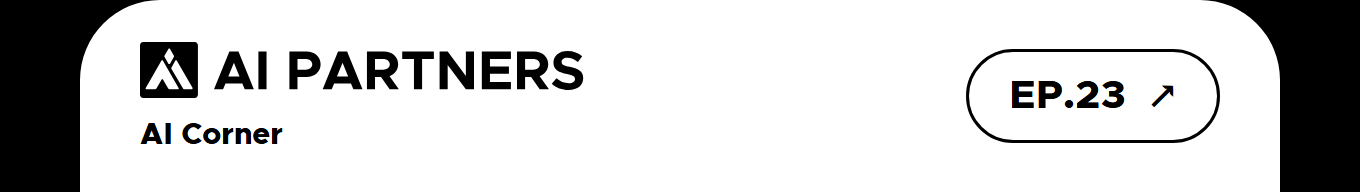
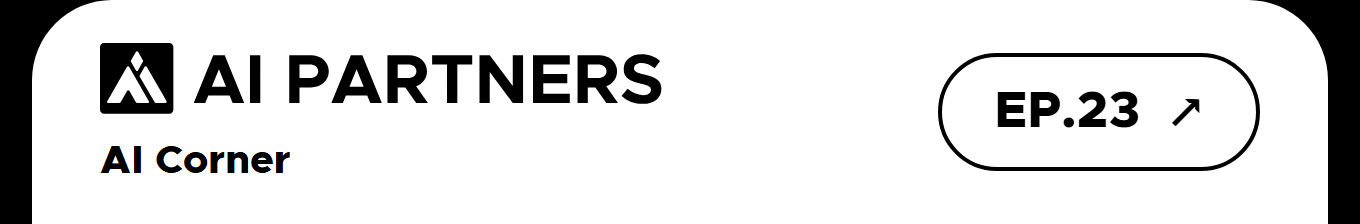
Mosaïque : lisibilité (forme pleine largeur, textes plus gros, gris foncés, intro retirée, carrés raccourcis), retour de la collègue marketing 02/11

Changed region(s): [[0.0, 0.0, 0.4941, 1.0], [0.6794, 0.0, 0.9882, 1.0]]

diff --git a/docs/newsletters/E23/email.html b/docs/newsletters/E23/email.html
@@ -7,6 +7,6 @@
 <div style="display:none;max-height:0;overflow:hidden;opacity:0">Nicolas Comestaz (Coty) : 3000 agents créés, et maintenant ? Sa méthode.</div>
 <table role="presentation" width="100%" cellpadding="0" cellspacing="0" bgcolor="#000000"><tr><td align="center" style="padding:24px 12px">
 <table role="presentation" width="680" cellpadding="0" cellspacing="0" bgcolor="#000000" style="width:100%;max-width:680px;border-radius:16px;overflow:hidden">
-<tr><td bgcolor="#000000" height="24" style="font-size:0;line-height:0;height:24px">&nbsp;</td></tr><tr><td bgcolor="#000000" style="font-size:0;line-height:0"><a href="{{lien_youtube}}" style="text-decoration:none"><img src="https://arthurw31.github.io/ai-partners-podcast-content-machine/newsletters/E23/mosaique_entete.png" width="680" alt="AI Corner by AI Partners, épisode E23" style="display:block;width:100%;max-width:680px;border:0"></a></td></tr><tr><td bgcolor="#000000" style="font-size:0;line-height:0"><a href="{{lien_youtube}}" style="text-decoration:none"><img src="https://arthurw31.github.io/ai-partners-podcast-content-machine/newsletters/E23/mosaique_miniature.jpg" width="680" alt="Comment Coty déploie l’IA à grande échelle avec Microsoft Copilot" style="display:block;width:100%;max-width:680px;border:0"></a></td></tr><tr><td bgcolor="#000000" style="font-size:0;line-height:0"><a href="{{lien_youtube}}" style="text-decoration:none"><img src="https://arthurw31.github.io/ai-partners-podcast-content-machine/newsletters/E23/mosaique_haut.png" width="680" alt="Comment Coty déploie l’IA à grande échelle avec Microsoft Copilot Les agents IA se multiplient, l’impact reste difficile à mesurer. Comment passer de l’expérimentation aux processus métier ? J’ai reçu Nicolas Comestaz, VP Global Data &amp; AI Center of Excellence chez Coty. Évangélisation, gouvernance, passage à l’échelle : il raconte ce qu’il a vraiment mis en place. Regarder l&#x27;épisode. 04:53 L’IA rejoue le scénario du digital : Les éditeurs dictent le rythme, comme avec l’AdTech et la MarTech, mais dix fois plus fort. Comment éviter les mêmes erreurs ? 09:32 Former les équipes à Copilot : Près de 1 000 licences Microsoft Copilot, puis des formations sur le terrain et en ligne, répétées marché par marché. 22:47 Une équipe centrale et des relais métiers : Un référent Data &amp; IA dans chaque fonction, et un comité, l’AI Board, qui valide chaque cas d’usage avant déploiement. 31:54 3 000 agents, et un défi humain : Plus de 3 000 agents IA créés, dont 10 qui font la même chose d’un marché à l’autre. L’enjeu devient humain, plus que technique." style="display:block;width:100%;max-width:680px;border:0"></a></td></tr><tr><td bgcolor="#000000" style="font-size:0;line-height:0"><a href="https://calendar.google.com/calendar/appointments/schedules/AcZssZ0_yeSZr-eANdqFosuQLg2jE2smXxRU-eIMCXBA0WC3CynV7uSHwNeGX8FK-0MHDtpLcNiC4f9_?gv=true" style="text-decoration:none"><img src="https://arthurw31.github.io/ai-partners-podcast-content-machine/newsletters/E23/mosaique_fin.png" width="680" alt="Ma phrase préférée : le Head of AI est un architecte. Il comprend assez la technique pour challenger, sans poser le carrelage lui-même. Thomas Spitz Vos équipes testent l&#x27;IA. Et après ? Réserver un échange avec Thomas" style="display:block;width:100%;max-width:680px;border:0"></a></td></tr><tr><td bgcolor="#000000" align="center" style="padding:0 40px"><table role="presentation" width="100%" bgcolor="#FFFFFF" cellpadding="0" cellspacing="0"><tr><td align="center" bgcolor="#FFFFFF" style="padding:0 0 4px"><table role="presentation" align="center" cellpadding="0" cellspacing="0"><tr><td align="center" valign="middle" width="100" style="padding:0 4px;font-size:0;line-height:0"><a href="https://www.youtube.com/playlist?list=PLeeolan_fqxdZbU5xZqEwo12pbqK3fH5N" style="text-decoration:none"><img src="https://arthurw31.github.io/ai-partners-podcast-content-machine/newsletters/E23/mosaique_youtube.png" width="100" height="100" alt="Youtube" style="display:block;width:100px;height:100px;border:0"></a></td><td align="center" valign="middle" width="100" style="padding:0 4px;font-size:0;line-height:0"><a href="https://open.spotify.com/show/4chUmiipM4KiK4sEdL9BeP" style="text-decoration:none"><img src="https://arthurw31.github.io/ai-partners-podcast-content-machine/newsletters/E23/mosaique_spotify.png" width="100" height="100" alt="Spotify" style="display:block;width:100px;height:100px;border:0"></a></td><td align="center" valign="middle" width="100" style="padding:0 4px;font-size:0;line-height:0"><a href="https://podcast.ausha.co/ai-partners-podcast" style="text-decoration:none"><img src="https://arthurw31.github.io/ai-partners-podcast-content-machine/newsletters/E23/mosaique_ausha.png" width="100" height="100" alt="Ausha" style="display:block;width:100px;height:100px;border:0"></a></td></tr></table></td></tr></table></td></tr><tr><td bgcolor="#000000" style="font-size:0;line-height:0"><img src="https://arthurw31.github.io/ai-partners-podcast-content-machine/newsletters/E23/mosaique_plateformes_bas.png" width="680" alt="" style="display:block;width:100%;max-width:680px;border:0"></td></tr>
-<tr><td bgcolor="#000000" class="pad" style="padding:22px 40px;font-family:Helvetica, Arial, sans-serif;font-size:12px;line-height:1.6;color:#8A8A8A">AI Corner, le podcast d'AI Partners.<!--FOOT--></td></tr>
+<tr><td bgcolor="#000000" height="24" style="font-size:0;line-height:0;height:24px">&nbsp;</td></tr><tr><td bgcolor="#000000" style="font-size:0;line-height:0"><a href="{{lien_youtube}}" style="text-decoration:none"><img src="https://arthurw31.github.io/ai-partners-podcast-content-machine/newsletters/E23/mosaique_entete.png" width="680" alt="AI Corner by AI Partners, épisode E23" style="display:block;width:100%;max-width:680px;border:0"></a></td></tr><tr><td bgcolor="#000000" style="font-size:0;line-height:0"><a href="{{lien_youtube}}" style="text-decoration:none"><img src="https://arthurw31.github.io/ai-partners-podcast-content-machine/newsletters/E23/mosaique_miniature.jpg" width="680" alt="Comment Coty déploie l’IA à grande échelle avec Microsoft Copilot" style="display:block;width:100%;max-width:680px;border:0"></a></td></tr><tr><td bgcolor="#000000" style="font-size:0;line-height:0"><a href="{{lien_youtube}}" style="text-decoration:none"><img src="https://arthurw31.github.io/ai-partners-podcast-content-machine/newsletters/E23/mosaique_haut.png" width="680" alt="Comment Coty déploie l’IA à grande échelle avec Microsoft Copilot Les agents IA se multiplient, l’impact reste difficile à mesurer. Comment passer de l’expérimentation aux processus métier ? Les thèmes abordés. Regarder l&#x27;épisode. 04:53 L’IA rejoue le scénario du digital : Les éditeurs dictent le rythme, comme avec l’AdTech et la MarTech, mais dix fois plus fort. Comment éviter les mêmes erreurs ? 09:32 Former les équipes à Copilot : Près de 1 000 licences Microsoft Copilot, puis des formations sur le terrain et en ligne, répétées marché par marché. 22:47 Une équipe centrale et des relais métiers : Un référent Data &amp; IA dans chaque fonction, et un comité, l’AI Board, qui valide chaque cas d’usage avant déploiement. 31:54 3 000 agents, et un défi humain : Plus de 3 000 agents IA créés, dont 10 font la même chose. L’enjeu est désormais humain, plus que technique." style="display:block;width:100%;max-width:680px;border:0"></a></td></tr><tr><td bgcolor="#000000" style="font-size:0;line-height:0"><a href="https://calendar.google.com/calendar/appointments/schedules/AcZssZ0_yeSZr-eANdqFosuQLg2jE2smXxRU-eIMCXBA0WC3CynV7uSHwNeGX8FK-0MHDtpLcNiC4f9_?gv=true" style="text-decoration:none"><img src="https://arthurw31.github.io/ai-partners-podcast-content-machine/newsletters/E23/mosaique_fin.png" width="680" alt="Ma phrase préférée : le Head of AI est un architecte. Il comprend assez la technique pour challenger, sans poser le carrelage lui-même. Thomas Spitz Vos équipes testent l&#x27;IA. Et après ? Réserver un échange avec Thomas" style="display:block;width:100%;max-width:680px;border:0"></a></td></tr><tr><td bgcolor="#000000" align="center" style="padding:0 16px"><table role="presentation" width="100%" bgcolor="#FFFFFF" cellpadding="0" cellspacing="0"><tr><td align="center" bgcolor="#FFFFFF" style="padding:0 0 4px"><table role="presentation" align="center" cellpadding="0" cellspacing="0"><tr><td align="center" valign="middle" width="100" style="padding:0 4px;font-size:0;line-height:0"><a href="https://www.youtube.com/playlist?list=PLeeolan_fqxdZbU5xZqEwo12pbqK3fH5N" style="text-decoration:none"><img src="https://arthurw31.github.io/ai-partners-podcast-content-machine/newsletters/E23/mosaique_youtube.png" width="100" height="100" alt="Youtube" style="display:block;width:100px;height:100px;border:0"></a></td><td align="center" valign="middle" width="100" style="padding:0 4px;font-size:0;line-height:0"><a href="https://open.spotify.com/show/4chUmiipM4KiK4sEdL9BeP" style="text-decoration:none"><img src="https://arthurw31.github.io/ai-partners-podcast-content-machine/newsletters/E23/mosaique_spotify.png" width="100" height="100" alt="Spotify" style="display:block;width:100px;height:100px;border:0"></a></td><td align="center" valign="middle" width="100" style="padding:0 4px;font-size:0;line-height:0"><a href="https://podcast.ausha.co/ai-partners-podcast" style="text-decoration:none"><img src="https://arthurw31.github.io/ai-partners-podcast-content-machine/newsletters/E23/mosaique_ausha.png" width="100" height="100" alt="Ausha" style="display:block;width:100px;height:100px;border:0"></a></td></tr></table></td></tr></table></td></tr><tr><td bgcolor="#000000" style="font-size:0;line-height:0"><img src="https://arthurw31.github.io/ai-partners-podcast-content-machine/newsletters/E23/mosaique_plateformes_bas.png" width="680" alt="" style="display:block;width:100%;max-width:680px;border:0"></td></tr>
+<tr><td bgcolor="#000000" class="pad" style="padding:22px 40px;font-family:Helvetica, Arial, sans-serif;font-size:12px;line-height:1.6;color:#B5B5B5">AI Corner, le podcast d'AI Partners.<!--FOOT--></td></tr>
 </table></td></tr></table></body></html>

diff --git a/clipper/newsletter_mosaique.py b/clipper/newsletter_mosaique.py
@@ -17,17 +17,18 @@ from PIL import Image
 from .newsletter_templates import FONT, PLATFORM_LABELS, esc, shell
 
 W = 680                  # largeur de la carte du mail (px CSS) ; images rendues à 2x
-SW = 600                 # largeur de la forme blanche
+SW = 648                 # largeur de la forme blanche : presque toute la largeur du mail (marge noire de 16 px)
+C = SW // 2              # colonne gauche / droite de l'escalier
 R_OUT, R_IN = 40, 14     # coins convexes bien arrondis ; coins des cases noires (concaves pour la forme blanche)
 OV = 6                   # recouvrement vertical de deux carrés blancs voisins = épaisseur de la jonction (fine, comme sur la référence)
-HEAD = 96                # haut de la forme : barre « AI Corner by … » (20 px de marge, 56 px) puis 20 px
-TW = 560                 # largeur de la miniature, posée DANS le blanc (20 px de marge de chaque côté)
+HEAD = 112               # haut de la forme : logo AI PARTNERS + AI Corner + pastille de l'épisode
+TW = SW - 40             # largeur de la miniature, posée DANS le blanc (20 px de marge de chaque côté)
 TH = round(TW * 9 / 16)  # hauteur de la miniature
 TXT = HEAD + TH + 30     # début du titre, de l'accroche et du bouton
-H0 = TXT + 400           # fin du grand rectangle (titre, accroche, intro, bouton)
-TITLE_H = 84             # titre du bandeau des plateformes, dans la même forme blanche
-STEP = 830               # hauteur de l'escalier du programme
-H1 = 330                 # hauteur du rectangle final (mot de Thomas + réservation)
+H0 = TXT + 400           # fin du grand rectangle (titre, accroche, « Les thèmes abordés » + bouton)
+BH = 290                 # hauteur d'un carré blanc de l'escalier (titre + 5 lignes de texte lisibles)
+TITLE_H = 100            # titre du bandeau des plateformes, dans la même forme blanche
+H1 = 400                 # hauteur du rectangle final (mot de Thomas + réservation)
 DEFAULT_GLYPHS = ["git-compare", "zap", "network", "users"]
 INK = "#000000"
 
@@ -49,18 +50,20 @@ def rounded_path(pts: list, r_out: float, r_in: float) -> str:
 
 def stair(o: int) -> dict:
     """Ordonnées de l'escalier : chaque carré blanc commence `OV` px AVANT la fin du précédent (jonction fine)."""
-    r1s, r1e = o + 200, o + 420
+    r1s = o + BH - 6
+    r1e = r1s + BH
     l2s = r1e - OV
-    l2e = l2s + 230
-    return {"l1e": r1s + OV, "r1s": r1s, "r1e": r1e, "l2s": l2s, "l2e": l2e, "r2s": l2e - OV}
+    l2e = l2s + BH
+    return {"l1e": r1s + OV, "r1s": r1s, "r1e": r1e, "l2s": l2s, "l2e": l2e, "r2s": l2e - OV, "step": l2e + 230}
 
 
 def ribbon(o: int, end: int | None = None) -> list:
     """Forme blanche : grand rectangle (0..o), puis 4 carrés en escalier reliés par un cou fin, puis rectangle final."""
-    end, y = end or o + STEP + H1, stair(o)
-    return [(0, 0), (SW, 0), (SW, o), (300, o), (300, y["r1s"]), (SW, y["r1s"]), (SW, y["r1e"]), (300, y["r1e"]), (300, y["r2s"]),
-            (SW, y["r2s"]), (SW, end), (0, end), (0, o + STEP), (300, o + STEP), (300, y["l2e"]), (0, y["l2e"]), (0, y["l2s"]),
-            (300, y["l2s"]), (300, y["l1e"]), (0, y["l1e"])]
+    y = stair(o)
+    end = end or y["step"] + H1
+    return [(0, 0), (SW, 0), (SW, o), (C, o), (C, y["r1s"]), (SW, y["r1s"]), (SW, y["r1e"]), (C, y["r1e"]), (C, y["r2s"]),
+            (SW, y["r2s"]), (SW, end), (0, end), (0, y["step"]), (C, y["step"]), (C, y["l2e"]), (0, y["l2e"]), (0, y["l2s"]),
+            (C, y["l2s"]), (C, y["l1e"]), (0, y["l1e"])]
 
 
 def sentences(text: str, max_chars: int, max_sentences: int = 2) -> str:
@@ -125,10 +128,9 @@ ARROW = '<svg width="{s}" height="{s}" viewBox="0 0 64 64"><path d="M14 50 50 14
 
 def _css(fonts_css: str) -> str:
     return (fonts_css + "*{box-sizing:border-box;margin:0}body{background:#000;color:#fff;font-family:M,Arial,sans-serif;zoom:2;overflow:hidden}"
-            ".m{font:13px/1 Consolas,'Courier New',monospace;letter-spacing:.02em}.bt{font:700 20px/1.15 M;color:#000;margin-top:16px;letter-spacing:-.01em}"
-            ".bx{font:14px/1.5 Arial;color:#4A4A4A;margin-top:8px}.hw{font:800 26px/1.08 M;color:#fff;letter-spacing:-.02em}"
-            ".big{font:800 46px/1 M;color:#fff;letter-spacing:-.03em}"
-            ".btn{display:inline-block;background:#000;color:#fff;font:700 15px/1 M;padding:17px 26px;border-radius:40px;white-space:nowrap}"
+            ".m{font:16px/1 Consolas,'Courier New',monospace;letter-spacing:.02em}.bt{font:700 25px/1.15 M;color:#000;margin-top:16px;letter-spacing:-.01em}"
+            ".bx{font:18px/1.45 Arial;color:#1A1A1A;margin-top:10px}"
+            ".btn{display:inline-block;background:#000;color:#fff;font:700 19px/1 M;padding:21px 30px;border-radius:50px;white-space:nowrap}"
             ".lg{display:block;line-height:0}.lg svg{height:14px;width:auto;display:block}")
 
 
@@ -138,14 +140,14 @@ def _lab(text: str, color: str) -> str:
 
 def _item(x: int, y: int, it: dict) -> str:
     """Carré blanc d'un point du programme : le thème et son petit texte (l'icône est dans la case noire voisine)."""
-    return (f'<div style="position:absolute;left:{x}px;top:{y}px;width:240px"><div class=bt style="margin-top:0">{esc(it["title"])}</div>'
+    return (f'<div style="position:absolute;left:{x}px;top:{y}px;width:{C - 60}px"><div class=bt style="margin-top:0">{esc(it["title"])}</div>'
             f'<div class=bx>{esc(it["text"])}</div></div>')
 
 
 def _icon_cell(brand, cx: int, cy: int, it: dict) -> str:
     """Case noire : l'icône du point voisin, en blanc, centrée."""
-    return (f'<div style="position:absolute;left:{cx - 45}px;top:{cy - 45}px;width:90px;height:90px">'
-            f'{icon(brand, it["glyph"], 90, "#fff", 1.1)}</div>')
+    return (f'<div style="position:absolute;left:{cx - 50}px;top:{cy - 50}px;width:100px;height:100px">'
+            f'{icon(brand, it["glyph"], 100, "#fff", 1.1)}</div>')
 
 
 def make_mosaic(brand, d: Path, mail: dict, shot, fonts_css: str, uri, thumb: Path | None, logo_svg: str, platforms: list,
@@ -153,9 +155,10 @@ def make_mosaic(brand, d: Path, mail: dict, shot, fonts_css: str, uri, thumb: Pa
     """Images du gabarit : en-tête, miniature arrondie, forme blanche (haut puis mot de la fin), titre et tuiles des plateformes."""
     t = short_texts(mail, title)
     o = H0
-    fin = o + STEP + H1 + TITLE_H                  # fin de ce qui est rendu ; le blanc continue ensuite (logos, puis pied arrondi)
-    end = fin + 160                                # la forme dépasse la coupe : le bas arrondi est une image à part
     y = stair(o)
+    st = y["step"]                                   # début du mot de la fin (le bas de l'escalier)
+    fin = st + H1 + TITLE_H                        # fin de ce qui est rendu ; le blanc continue ensuite (logos, puis pied arrondi)
+    end = fin + 160                                # la forme dépasse la coupe : le bas arrondi est une image à part
     prog = t["program"] + [{"time": "", "title": "", "text": "", "glyph": DEFAULT_GLYPHS[0]}] * (4 - len(t["program"]))
     ox = (W - SW) // 2
     host = cfg.get("from_name") or "Thomas Spitz"
@@ -166,33 +169,32 @@ def make_mosaic(brand, d: Path, mail: dict, shot, fonts_css: str, uri, thumb: Pa
 
     # --- UNE seule forme blanche du haut (barre du titre) au bas (plateformes) : rendue d'un bloc puis coupée en tranches
     shape = rounded_path(ribbon(o, end), R_OUT, R_IN)
-    book = (f'<div style="display:flex;justify-content:space-between;align-items:center"><div style="font:800 22px/1.15 M;color:#000">'
-            f'{esc(b.get("title") or "")}</div><span class=btn style="font-size:14px;padding:15px 22px">Réserver un échange&nbsp;↗</span></div>'
+    book = (f'<div style="display:flex;justify-content:space-between;align-items:center"><div style="font:800 28px/1.15 M;color:#000;width:300px">'
+            f'{esc(b.get("title") or "")}</div><span class=btn style="font-size:18px;padding:19px 26px">Réserver un échange&nbsp;↗</span></div>'
             ) if b.get("url") else ""
     thumb_html = (f'<img src="{uri(thumb)}" style="position:absolute;left:{(SW - TW) // 2}px;top:{HEAD}px;width:{TW}px;height:{TH}px;'
                   f'border-radius:{R_OUT - 14}px">') if thumb else ""
-    page = f"""<html><head><meta charset="utf-8"><style>{style}body{{width:{W}px;height:{end}px}}.lg svg{{filter:brightness(0);height:30px}}</style></head><body>
+    page = f"""<html><head><meta charset="utf-8"><style>{style}body{{width:{W}px;height:{end}px}}.lg svg{{filter:brightness(0);height:38px}}</style></head><body>
 <div style="position:relative;width:{SW}px;height:{end}px;margin:0 {ox}px">
 <svg width="{SW}" height="{end}" style="position:absolute;left:0;top:0"><path d="{shape}" fill="#fff"/></svg>
-<div style="position:absolute;left:30px;top:16px;width:540px;height:64px;display:flex;justify-content:space-between;align-items:center">
- <div><span class=lg>{logo_svg}</span><div style="font:800 15px/1 M;color:#000;margin-top:9px;letter-spacing:.01em">AI Corner</div></div>
- <span style="font:800 20px/1 M;background:#fff;color:#000;border:1.5px solid #000;border-radius:24px;padding:12px 20px;white-space:nowrap">EP.{re.sub(r"\D", "", str(mail.get("episode", "")))}&nbsp; ↗</span></div>
+<div style="position:absolute;left:34px;top:16px;width:{SW - 68}px;height:80px;display:flex;justify-content:space-between;align-items:center">
+ <div><span class=lg>{logo_svg}</span><div style="font:800 20px/1 M;color:#000;margin-top:11px;letter-spacing:.01em">AI Corner</div></div>
+ <span style="font:800 25px/1 M;background:#fff;color:#000;border:2px solid #000;border-radius:30px;padding:15px 26px;white-space:nowrap">EP.{re.sub(r"\D", "", str(mail.get("episode", "")))}&nbsp; ↗</span></div>
 {thumb_html}
-<div style="position:absolute;left:40px;top:{TXT}px;width:520px">
- <div style="font:800 36px/1.06 M;letter-spacing:-.025em;color:#000">{esc(t["title"])}</div>
- <div style="font:17px/1.5 Arial;color:#000;margin-top:20px">{esc(t["hook"])}</div>
- <div style="font:14.5px/1.6 Arial;color:#5A5A5A;margin-top:12px">{esc(t["intro"])}</div>
- <div style="margin-top:30px;display:flex;justify-content:space-between;align-items:center;gap:20px"><div style="font:800 30px/1.08 M;letter-spacing:-.02em;color:#000">Les thèmes<br>abordés</div>
+<div style="position:absolute;left:40px;top:{TXT}px;width:{SW - 80}px">
+ <div style="font:800 42px/1.06 M;letter-spacing:-.025em;color:#000">{esc(t["title"])}</div>
+ <div style="font:23px/1.4 Arial;color:#000;margin-top:22px">{esc(t["hook"])}</div>
+ <div style="margin-top:34px;display:flex;justify-content:space-between;align-items:center;gap:20px"><div style="font:800 38px/1.08 M;letter-spacing:-.02em;color:#000">Les thèmes<br>abordés</div>
   <span class=btn>{esc((cfg.get("button") or "Regarder l'épisode").capitalize())} &nbsp;↗</span></div></div>
-{_item(30, o + 44, prog[0])}{_item(330, y["r1s"] + 50, prog[1])}{_item(30, y["l2s"] + 54, prog[2])}{_item(330, y["r2s"] + 50, prog[3])}
-{_icon_cell(brand, 450, o + 100, prog[0])}{_icon_cell(brand, 150, (y["l1e"] + y["l2s"]) // 2, prog[1])}{_icon_cell(brand, 450, (y["r1e"] + y["r2s"]) // 2, prog[2])}{_icon_cell(brand, 150, (y["l2e"] + o + STEP) // 2, prog[3])}
-<div style="position:absolute;left:40px;top:{o + STEP + 40}px;width:520px">
- <div style="font:17px/1.55 Arial;color:#000">{esc(t["closing"])}</div>
- <div style="margin-top:18px;font:700 15px/1.4 M;color:#000">{esc(host)}</div><div class=m style="color:#6B6B6B;margin-top:6px">CEO · AI Partners</div>
- <div style="height:1px;background:#E2E2E2;margin:26px 0"></div>{book}</div>
-<div style="position:absolute;left:40px;top:{o + STEP + H1 - 14}px;width:520px;height:1px;background:#E2E2E2"></div>
-<div style="position:absolute;left:0;top:{o + STEP + H1 + 14}px;width:{SW}px;text-align:center"><div style="font:800 24px/1.1 M;color:#000">Écoutez AI Corner partout</div>
- <div class=m style="color:#6B6B6B;margin-top:12px">{labels}</div></div>
+{_item(30, o + 46, prog[0])}{_item(C + 30, y["r1s"] + 46, prog[1])}{_item(30, y["l2s"] + 46, prog[2])}{_item(C + 30, y["r2s"] + 46, prog[3])}
+{_icon_cell(brand, C + C // 2, o + BH // 2 - 3, prog[0])}{_icon_cell(brand, C // 2, (y["l1e"] + y["l2s"]) // 2, prog[1])}{_icon_cell(brand, C + C // 2, (y["r1e"] + y["r2s"]) // 2, prog[2])}{_icon_cell(brand, C // 2, (y["l2e"] + st) // 2, prog[3])}
+<div style="position:absolute;left:40px;top:{st + 44}px;width:{SW - 80}px">
+ <div style="font:22px/1.5 Arial;color:#000">{esc(t["closing"])}</div>
+ <div style="margin-top:20px;font:700 19px/1.4 M;color:#000">{esc(host)}</div><div class=m style="color:#333;margin-top:7px">CEO · AI Partners</div>
+ <div style="height:1px;background:#D5D5D5;margin:28px 0"></div>{book}</div>
+<div style="position:absolute;left:40px;top:{st + H1 - 14}px;width:{SW - 80}px;height:1px;background:#D5D5D5"></div>
+<div style="position:absolute;left:0;top:{st + H1 + 16}px;width:{SW}px;text-align:center"><div style="font:800 32px/1.1 M;color:#000">Écoutez AI Corner partout</div>
+ <div class=m style="color:#333;margin-top:12px">{labels}</div></div>
 </div></body></html>"""
     full = shot(page, W * 2, end * 2, d / "_mosaique_complet.png")
     im = Image.open(full).convert("RGB")
@@ -201,15 +203,15 @@ def make_mosaic(brand, d: Path, mail: dict, shot, fonts_css: str, uri, thumb: Pa
     # tranches de texte : 256 couleurs (noir, blanc, gris et anticrénelage) ; la miniature (photo) reste en JPEG
     pal(im.crop((0, 0, W * 2, HEAD * 2))).save(d / "mosaique_entete.png", optimize=True)
     im.crop((0, HEAD * 2, W * 2, t_cut)).save(d / "mosaique_miniature.jpg", quality=90)
-    pal(im.crop((0, t_cut, W * 2, (o + STEP) * 2))).save(d / "mosaique_haut.png", optimize=True)
-    pal(im.crop((0, (o + STEP) * 2, W * 2, fin * 2))).save(d / "mosaique_fin.png", optimize=True)
+    pal(im.crop((0, t_cut, W * 2, st * 2))).save(d / "mosaique_haut.png", optimize=True)
+    pal(im.crop((0, st * 2, W * 2, fin * 2))).save(d / "mosaique_fin.png", optimize=True)
     full.unlink(missing_ok=True)
     out.update(mz_header=d / "mosaique_entete.png", mz_thumb=d / "mosaique_miniature.jpg", mz_main=d / "mosaique_haut.png",
                mz_close=d / "mosaique_fin.png")
 
     # --- bas de la forme : rangée de logos cliquables (EN COULEUR) puis pied arrondi
     cap = (f'<html><head><meta charset="utf-8"><style>{style}body{{width:{W}px;height:70px}}</style></head><body>'
-           f'<div style="margin:0 40px;height:30px;background:#fff;border-radius:0 0 {R_OUT}px {R_OUT}px"></div></body></html>')
+           f'<div style="margin:0 {ox}px;height:30px;background:#fff;border-radius:0 0 {R_OUT}px {R_OUT}px"></div></body></html>')
     out["mz_plat_cap"] = shot(cap, W * 2, 70 * 2, d / "mosaique_plateformes_bas.png")
     for p in platforms:
         key = (p.get("name") or "").lower()
@@ -237,9 +239,10 @@ def mosaique(c: dict) -> str:
     t = short_texts(c.get("mail") or {"program": c["program"], "hook": c["hook"], "intro": c["intro"], "closing": c["closing"], "theme": c["theme"]},
                     c["title"])
     b = c.get("booking") or {}
-    alt_main = " ".join([t["title"], t["hook"], t["intro"], "Regarder l'épisode."] +
+    alt_main = " ".join([t["title"], t["hook"], "Les thèmes abordés.", "Regarder l'épisode."] +
                         [f'{p["time"]} {p["title"]} : {p["text"]}' for p in t["program"]])
     alt_close = " ".join([t["closing"], c["host_name"], b.get("title") or "", b.get("button") or ""])
+    ox = (W - SW) // 2
     plats = [p for p in c.get("platforms") or [] if p.get("url") and c["img"].get("mz_plat_" + (p.get("name") or "").lower())]
 
     def cell(p):
@@ -255,10 +258,10 @@ def mosaique(c: dict) -> str:
     body += _slice(c, "mz_main", alt_main, c["url"])
     body += _slice(c, "mz_close", alt_close, b.get("url") or c["url"])
     if plats:
-        body += (f'<tr><td bgcolor="#000000" align="center" style="padding:0 40px"><table role="presentation" width="100%" bgcolor="#FFFFFF" cellpadding="0" cellspacing="0">'
+        body += (f'<tr><td bgcolor="#000000" align="center" style="padding:0 {ox}px"><table role="presentation" width="100%" bgcolor="#FFFFFF" cellpadding="0" cellspacing="0">'
                  f'<tr><td align="center" bgcolor="#FFFFFF" style="padding:0 0 4px"><table role="presentation" align="center" cellpadding="0" cellspacing="0">'
                  f'<tr>{"".join(cell(p) for p in plats)}</tr></table></td></tr></table></td></tr>')
         if c["img"].get("mz_plat_cap"):
             body += (f'<tr><td bgcolor="#000000" style="font-size:0;line-height:0"><img src="{c["rel"]("mz_plat_cap")}" width="{W}" alt="" '
                      f'style="display:block;width:100%;max-width:{W}px;border:0"></td></tr>')
-    return shell(c, "#000000", body, "#000000", "#8A8A8A", card_bg="#000000")
+    return shell(c, "#000000", body, "#000000", "#B5B5B5", card_bg="#000000")

diff --git a/CLAUDE.md b/CLAUDE.md
@@ -144,6 +144,7 @@ Puis noter la demande et sa date dans la section concernée de ce fichier.
 - `clipper/newsletter_mosaique.py` : `newsletter --render --template mosaique` ; images `mosaique_*.png` rendues par Chrome (un mail ne dessine pas
   de coins concaves), texte alternatif complet, 256 couleurs et miniature en JPEG pour rester sous ~200 Ko ; textes raccourcis dans contenu.json
   (`hook_court`, `intro_court`, `closing_court`, `program[i].court`, `stat`), à défaut le début du texte long. Défaut de la marque inchangé : `duo`.
+- **Lisibilité** (collègue marketing, 02/11/2026 : « difficile à lire » dans le module HubSpot, ≈ 480 px donc texte réduit à ≈ 70 %) : forme blanche presque pleine largeur (`SW` 648, marge noire 16 px), textes ≈ 30 % plus gros (corps 22–23 px, carrés 25 / 18 px, boutons 19 px), gris foncés (aucun gris clair sur blanc), plus d'intro (titre + accroche suffisent), carrés de 5 lignes au plus (`BH`). Texte DANS l'image : ne jamais redescendre sous ces tailles ; `apercu_hubspot_480px.png` = simulation du rendu HubSpot.
 - Limites connues : texte DANS l'image (réduit sur téléphone : ≈ 0,55x, à tester Gmail / Outlook) ; pas de module HubSpot pour ce gabarit ;
   textes courts à faire relire par Thomas. Test `test_gabarit_mosaique`.
 
